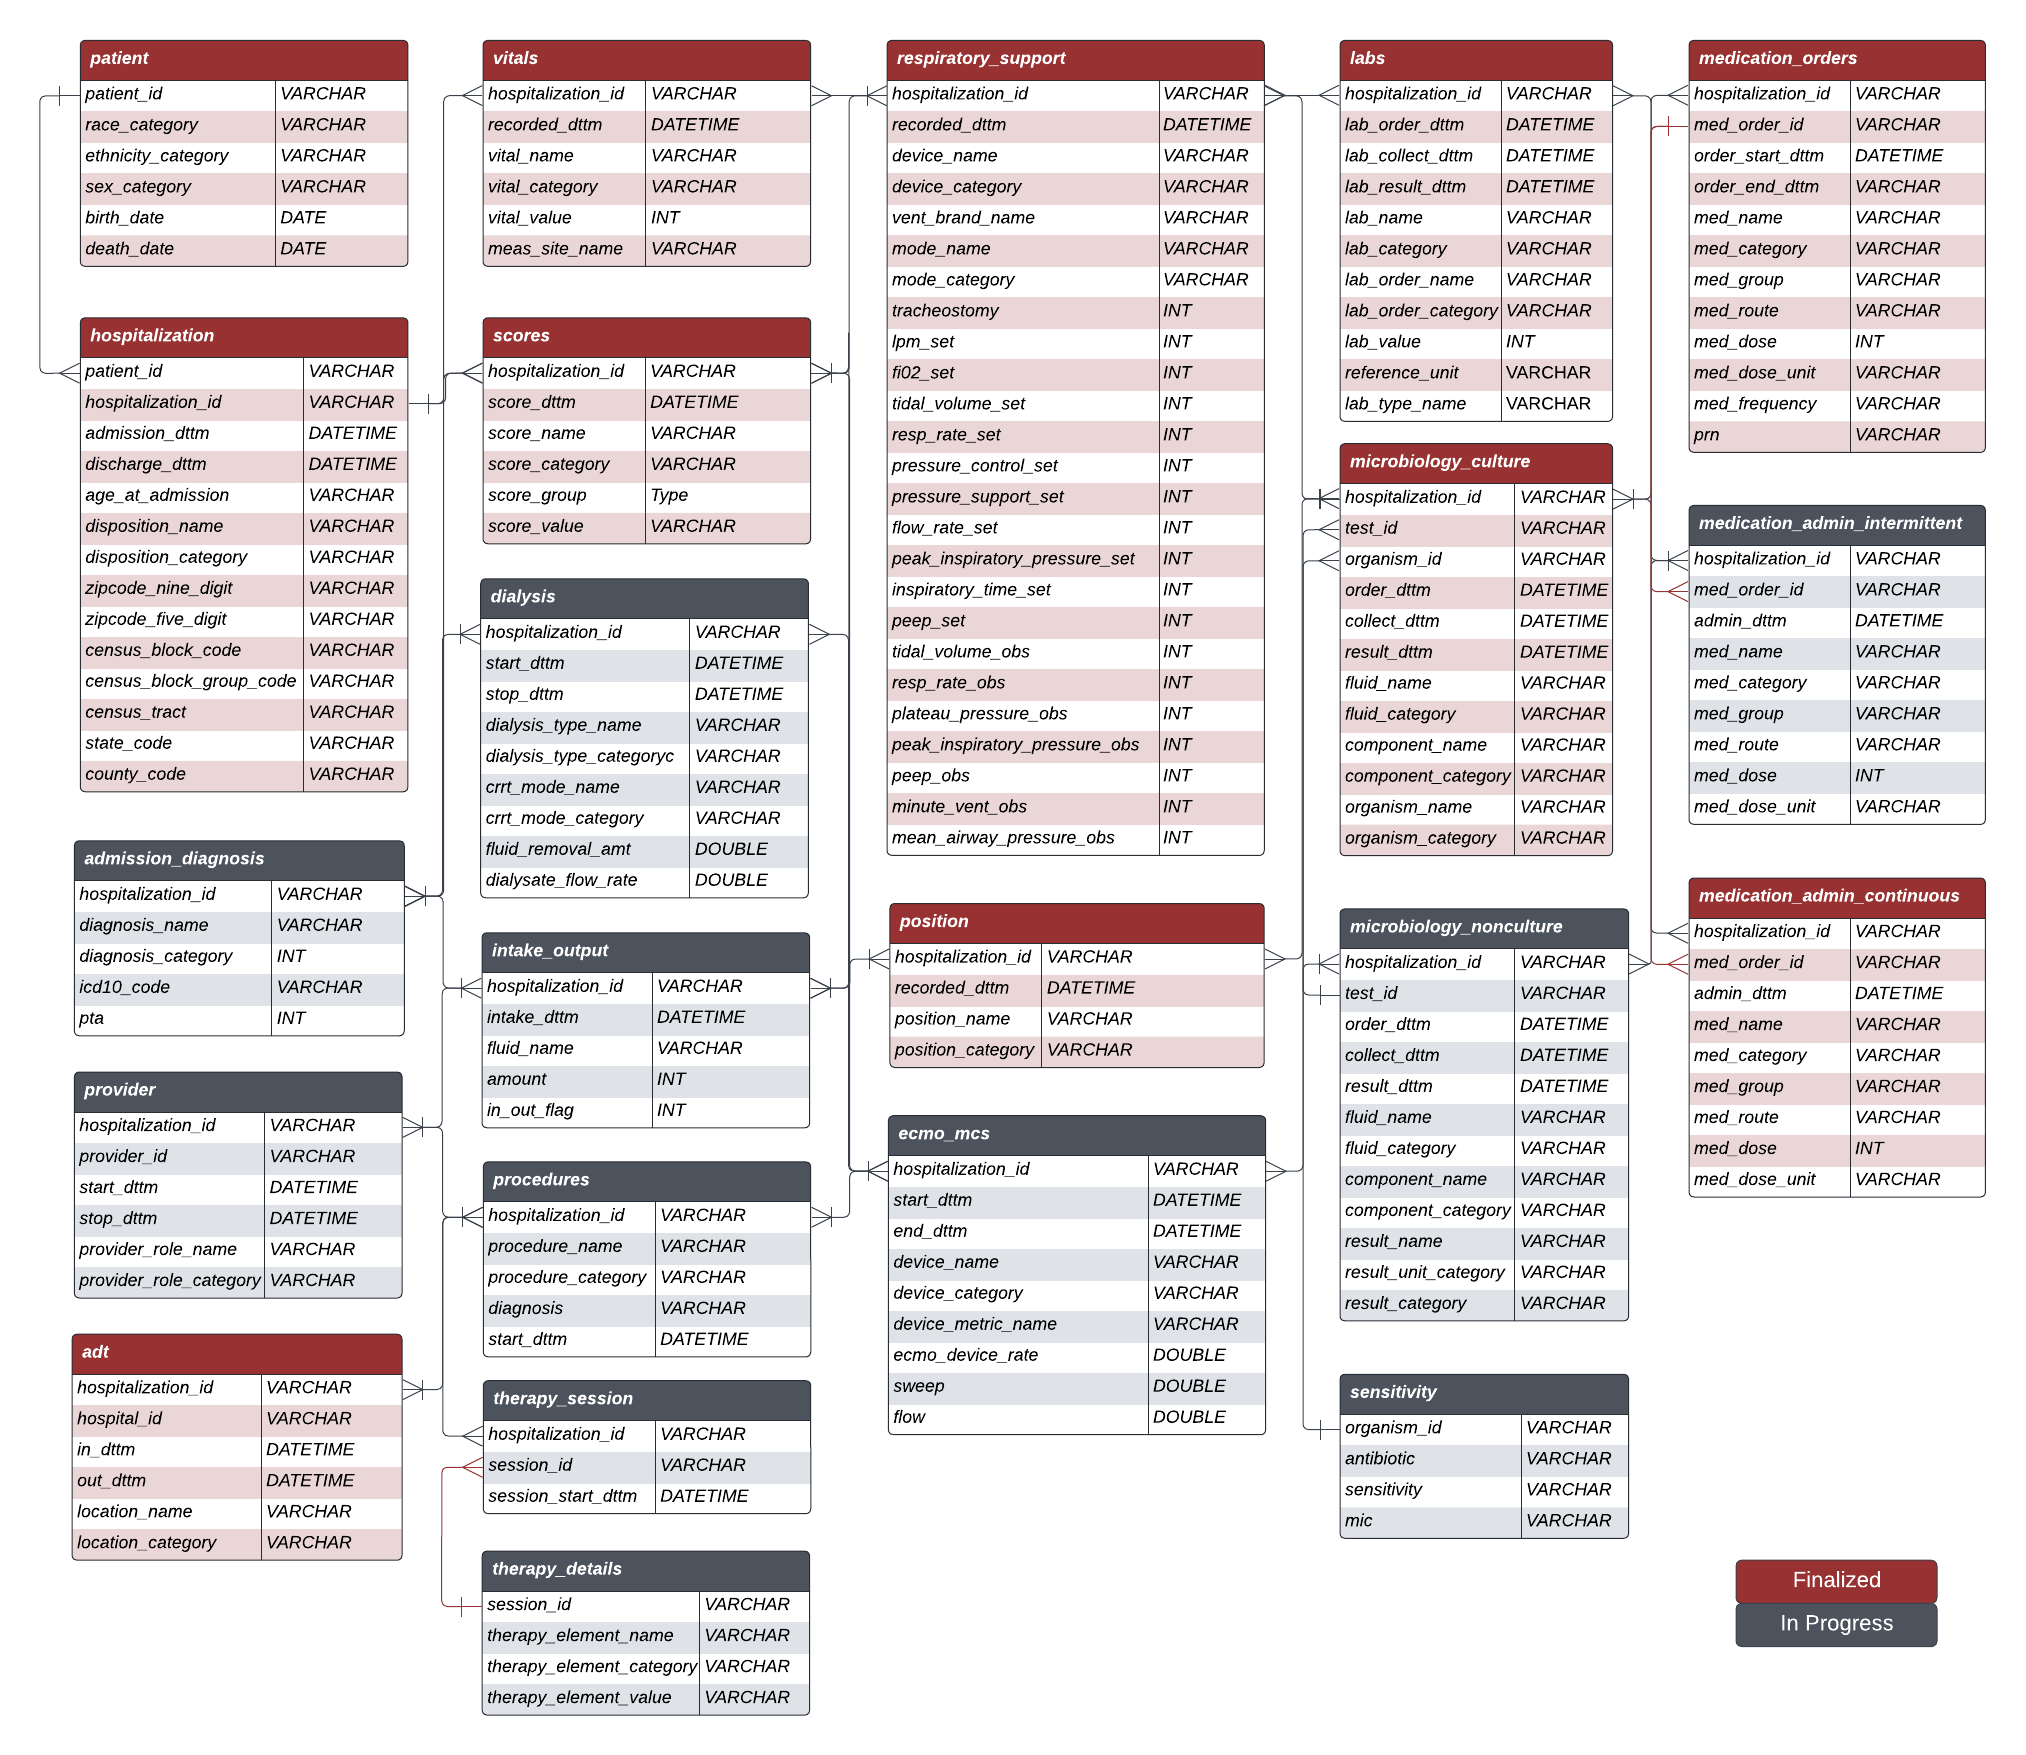
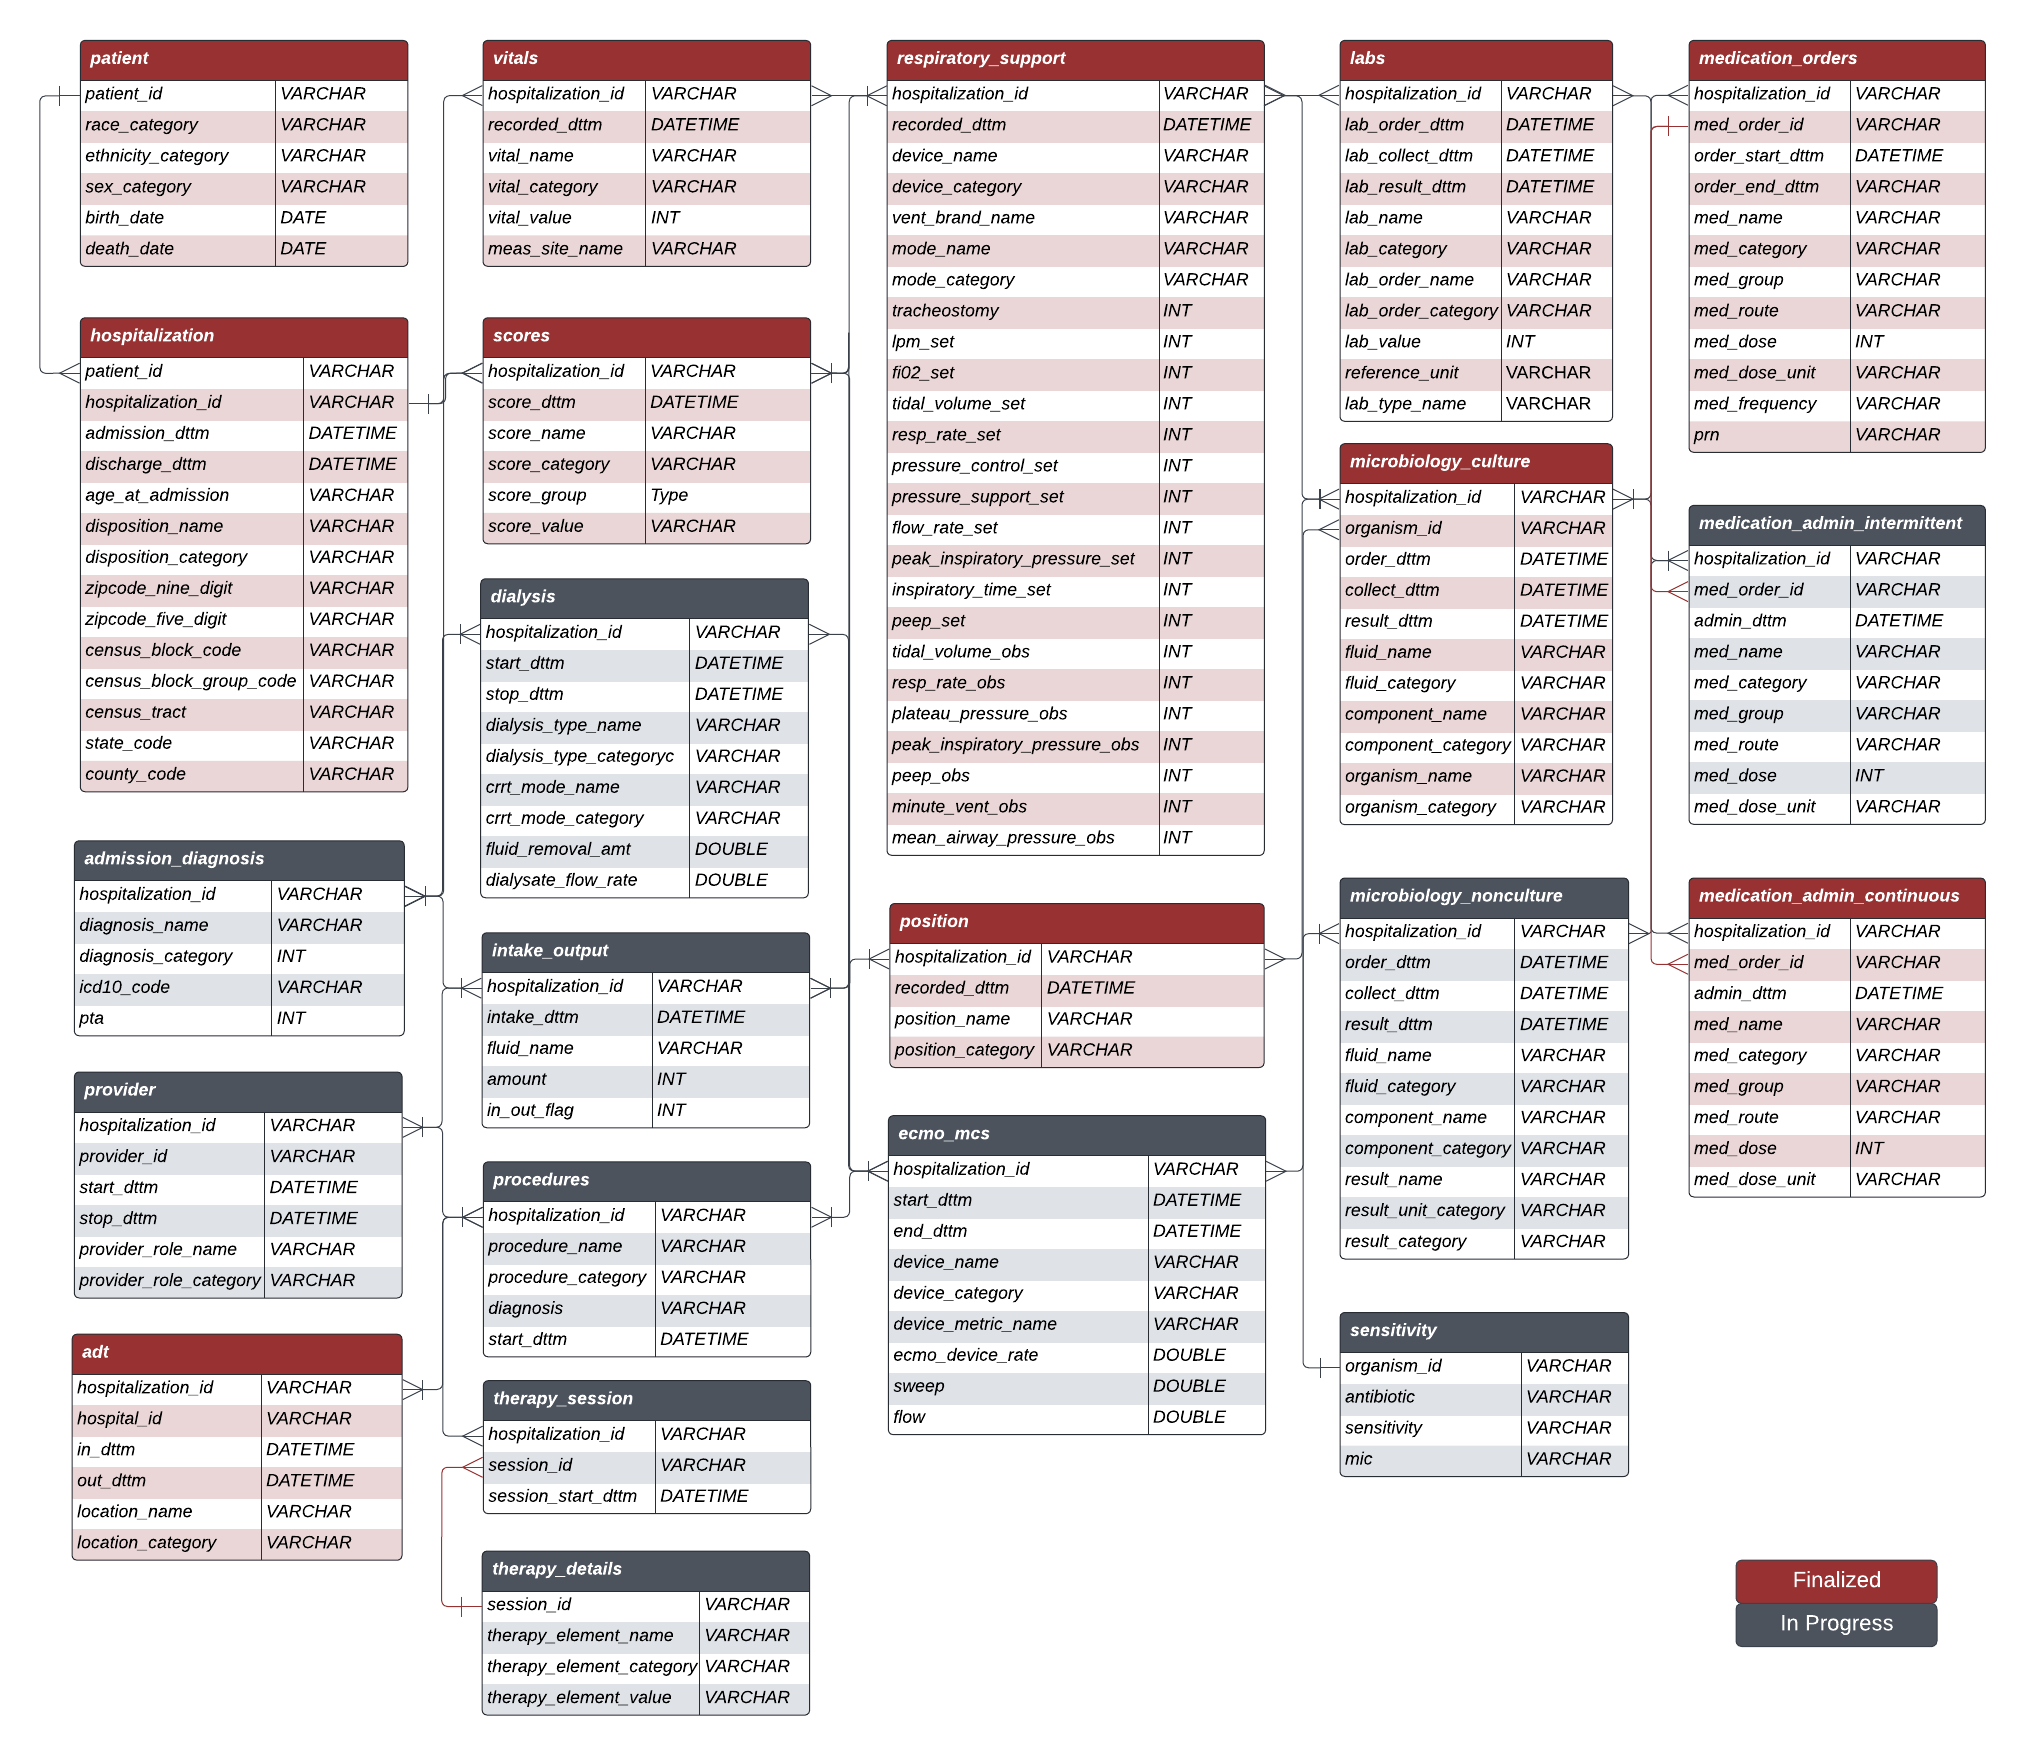
Updated Vent to IMV. Removed Test_id from micro

Changed region(s): [[0.653, 0.2769, 0.8085, 0.8923], [0.7463, 0.3692, 0.7774, 0.4], [0.7463, 0.3077, 0.7774, 0.3385]]

diff --git a/docs/data-dictionary.html b/docs/data-dictionary.html
@@ -142,9 +142,9 @@ ul.task-list li input[type="checkbox"] {
   <li><a href="#adt" id="toc-adt" class="nav-link" data-scroll-target="#adt">ADT</a></li>
   <li><a href="#vitals" id="toc-vitals" class="nav-link" data-scroll-target="#vitals">Vitals</a></li>
   <li><a href="#labs" id="toc-labs" class="nav-link" data-scroll-target="#labs">Labs</a></li>
-  <li><a href="#microbiology" id="toc-microbiology" class="nav-link" data-scroll-target="#microbiology">Microbiology</a></li>
-  <li><a href="#respiratory_support" id="toc-respiratory_support" class="nav-link" data-scroll-target="#respiratory_support">Respiratory_support</a></li>
-  <li><a href="#medication_admin_continuous" id="toc-medication_admin_continuous" class="nav-link" data-scroll-target="#medication_admin_continuous">Medication_admin_continuous</a></li>
+  <li><a href="#microbiology-culture" id="toc-microbiology-culture" class="nav-link" data-scroll-target="#microbiology-culture">Microbiology Culture</a></li>
+  <li><a href="#respiratory-support" id="toc-respiratory-support" class="nav-link" data-scroll-target="#respiratory-support">Respiratory Support</a></li>
+  <li><a href="#medication-admin-continuous" id="toc-medication-admin-continuous" class="nav-link" data-scroll-target="#medication-admin-continuous">Medication Admin Continuous</a></li>
   <li><a href="#position" id="toc-position" class="nav-link" data-scroll-target="#position">Position</a></li>
   </ul></li>
   <li><a href="#in-progress-tables" id="toc-in-progress-tables" class="nav-link" data-scroll-target="#in-progress-tables">In progress tables</a>
@@ -555,8 +555,8 @@ ul.task-list li input[type="checkbox"] {
 <p><strong>Example:</strong></p>
 <p><em>Note</em>: The <code>lab_value</code> field often has non-numeric entries that are useful to make project-specific decisions. A site may choose to keep the <code>lab_value</code> field as a character and create a new field <code>lab_value_numeric</code> that only parses the character field to extract the numeric part of the string.</p>
 </section>
-<section id="microbiology" class="level2">
-<h2 class="anchored" data-anchor-id="microbiology">Microbiology</h2>
+<section id="microbiology-culture" class="level2">
+<h2 class="anchored" data-anchor-id="microbiology-culture">Microbiology Culture</h2>
 <table class="table">
 <thead>
 <tr class="header">
@@ -636,8 +636,8 @@ ul.task-list li input[type="checkbox"] {
 </tbody>
 </table>
 </section>
-<section id="respiratory_support" class="level2">
-<h2 class="anchored" data-anchor-id="respiratory_support">Respiratory_support</h2>
+<section id="respiratory-support" class="level2">
+<h2 class="anchored" data-anchor-id="respiratory-support">Respiratory Support</h2>
 <table class="table">
 <thead>
 <tr class="header">
@@ -670,7 +670,7 @@ ul.task-list li input[type="checkbox"] {
 <td>device_category</td>
 <td>VARCHAR</td>
 <td>Includes a limited number of devices identified by the CLIF consortium</td>
-<td><code>Vent</code>, <code>NIPPV</code>, <code>CPAP</code>, <code>High Flow NC</code>, <code>Face Mask</code>, <code>Trach Collar</code>, <code>Nasal Cannula</code>, <code>Room Air</code>, <code>Other</code></td>
+<td><code>IMV</code>, <code>NIPPV</code>, <code>CPAP</code>, <code>High Flow NC</code>, <code>Face Mask</code>, <code>Trach Collar</code>, <code>Nasal Cannula</code>, <code>Room Air</code>, <code>Other</code></td>
 </tr>
 <tr class="odd">
 <td>mode_name</td>
@@ -801,8 +801,8 @@ ul.task-list li input[type="checkbox"] {
 </tbody>
 </table>
 </section>
-<section id="medication_admin_continuous" class="level2">
-<h2 class="anchored" data-anchor-id="medication_admin_continuous">Medication_admin_continuous</h2>
+<section id="medication-admin-continuous" class="level2">
+<h2 class="anchored" data-anchor-id="medication-admin-continuous">Medication Admin Continuous</h2>
 <table class="table">
 <thead>
 <tr class="header">
